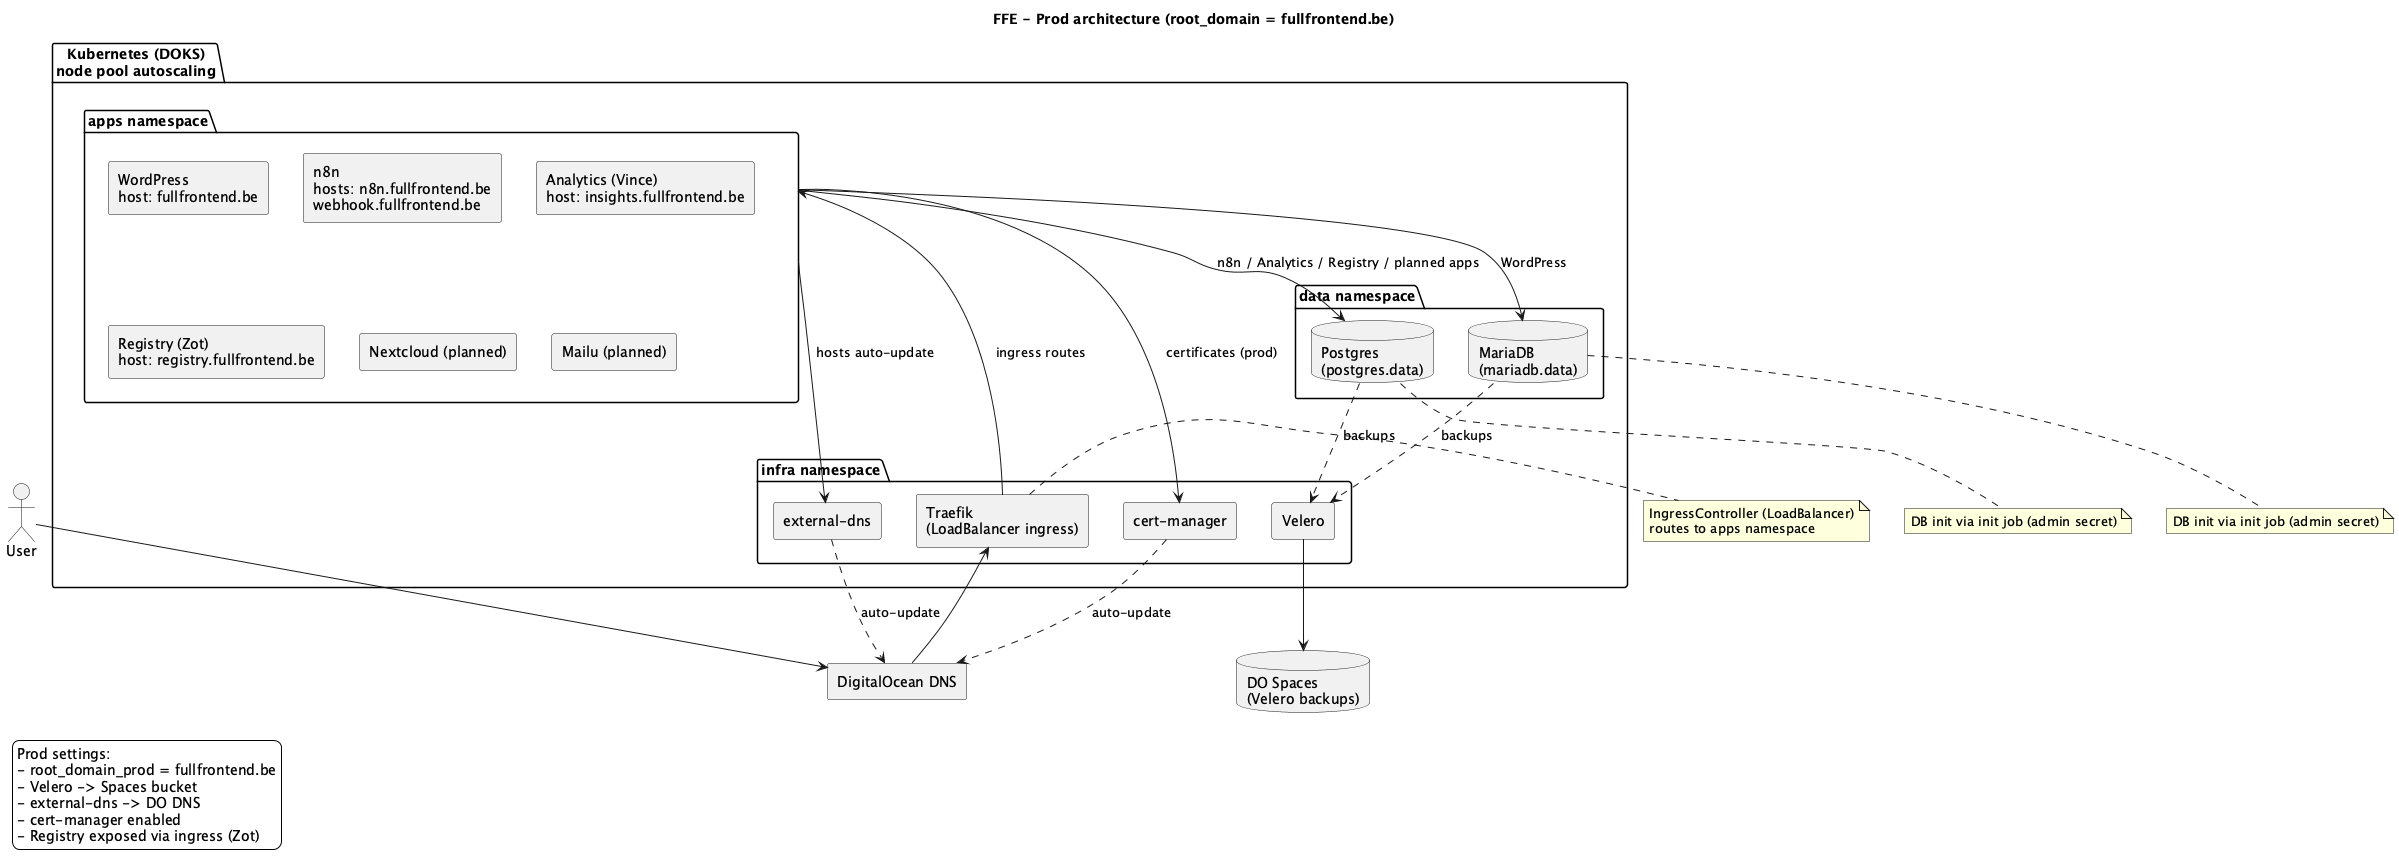
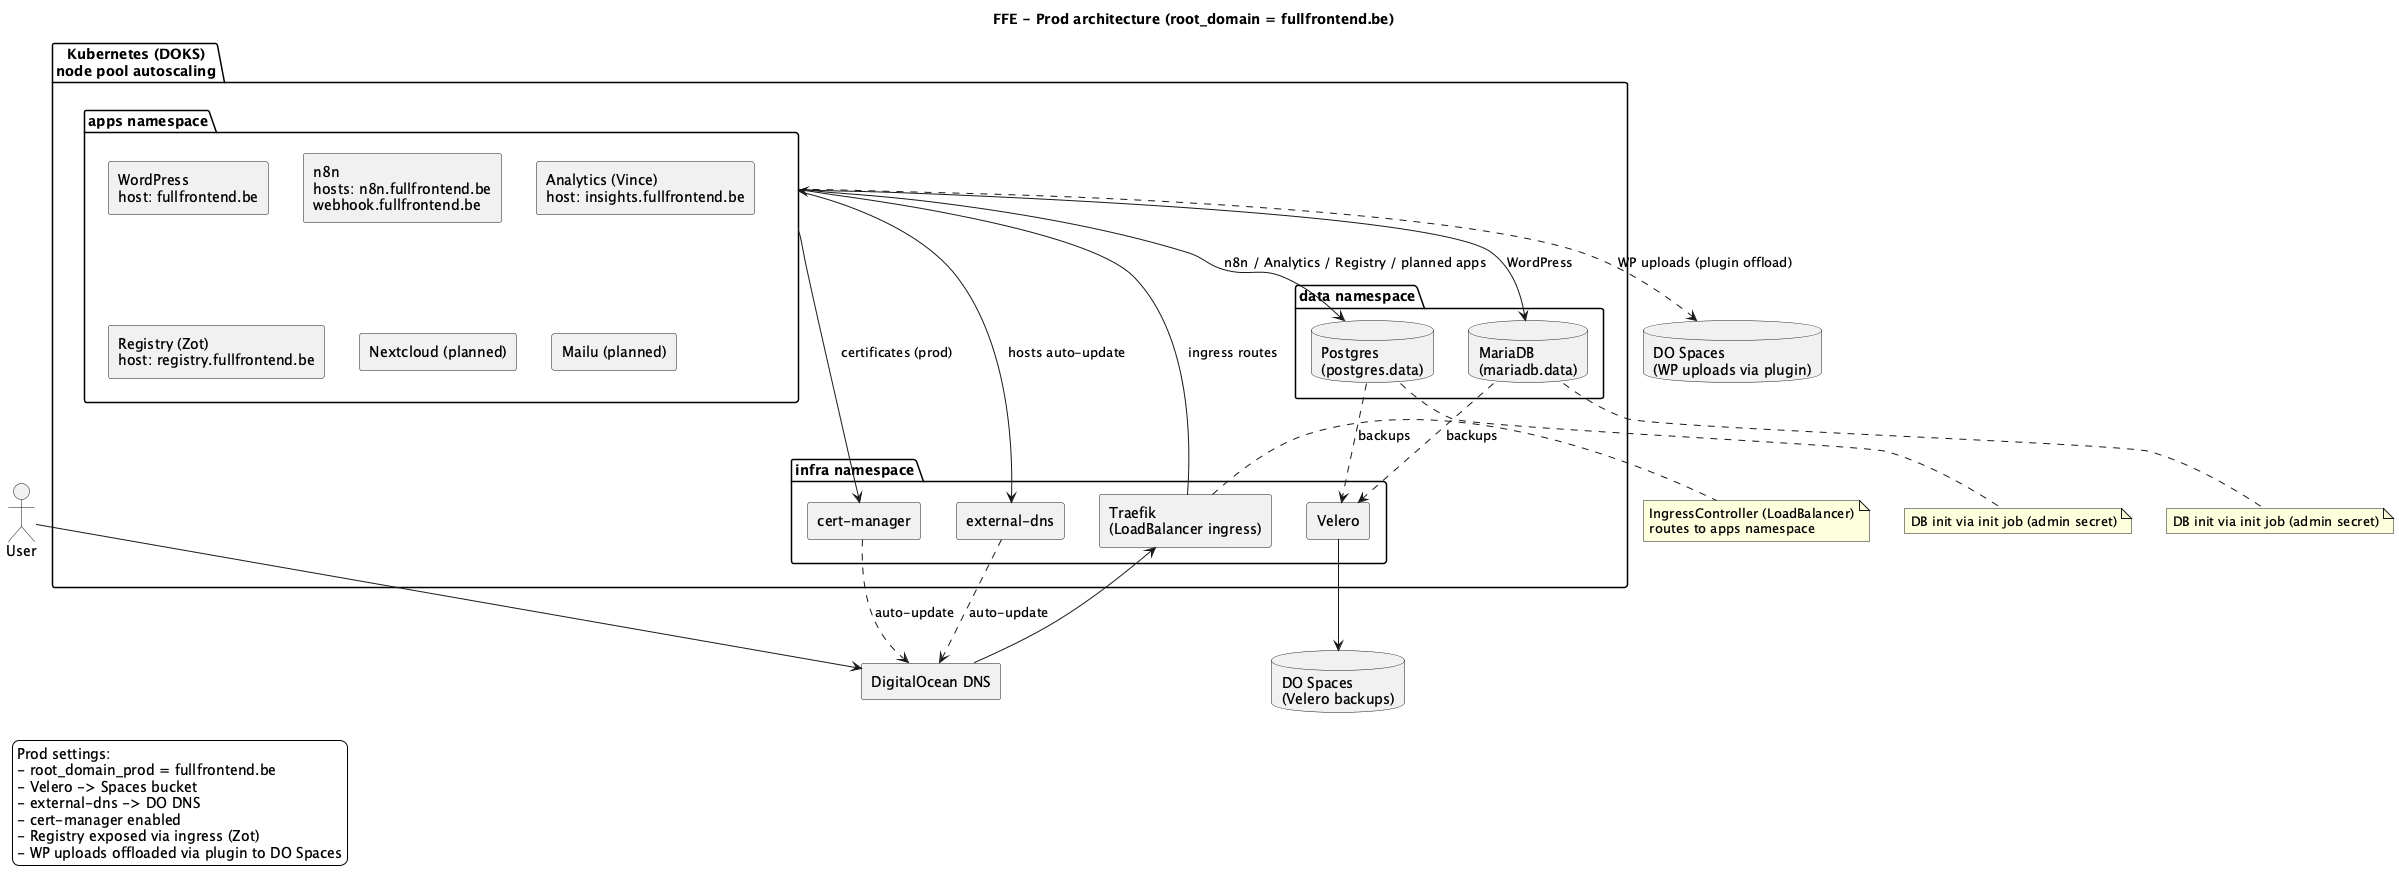
doc updates

diff --git a/README.md b/README.md
@@ -55,6 +55,7 @@ Pour le cadre global et les règles :
 - Accès DB : `kubectl port-forward` ponctuel (Postgres `kubectl port-forward svc/postgres 5432:5432 -n data`, MariaDB `kubectl port-forward svc/mariadb 3306:3306 -n data`).
 - Secrets : jamais en clair dans git ; utiliser SOPS/age ou variables d’environnement `TF_VAR_*` (secrets identiques en dev/prod).
 - Init Jobs Postgres/MariaDB : un Job Terraform (TTL 120s) crée DB/utilisateur pour chaque app avec `IF NOT EXISTS`. Si le Job est garbage collecté ou si vous ajoutez une app, il sera recréé au prochain apply et ajoutera les bases manquantes sans toucher aux existantes.
+- Offload WordPress uploads : utiliser le plugin [Amazon S3 and CloudFront](https://wordpress.org/plugins/amazon-s3-and-cloudfront/) avec un bucket Spaces et des credentials DO (non gérés par Terraform).
 
 ### Mailu et multi-domaine
 - Un seul host exposé suffit (ex: `mail.<root_domain>`) si les MX des autres domaines pointent vers ce host. Dans Mailu admin : ajouter les domaines secondaires puis comptes/alias.
